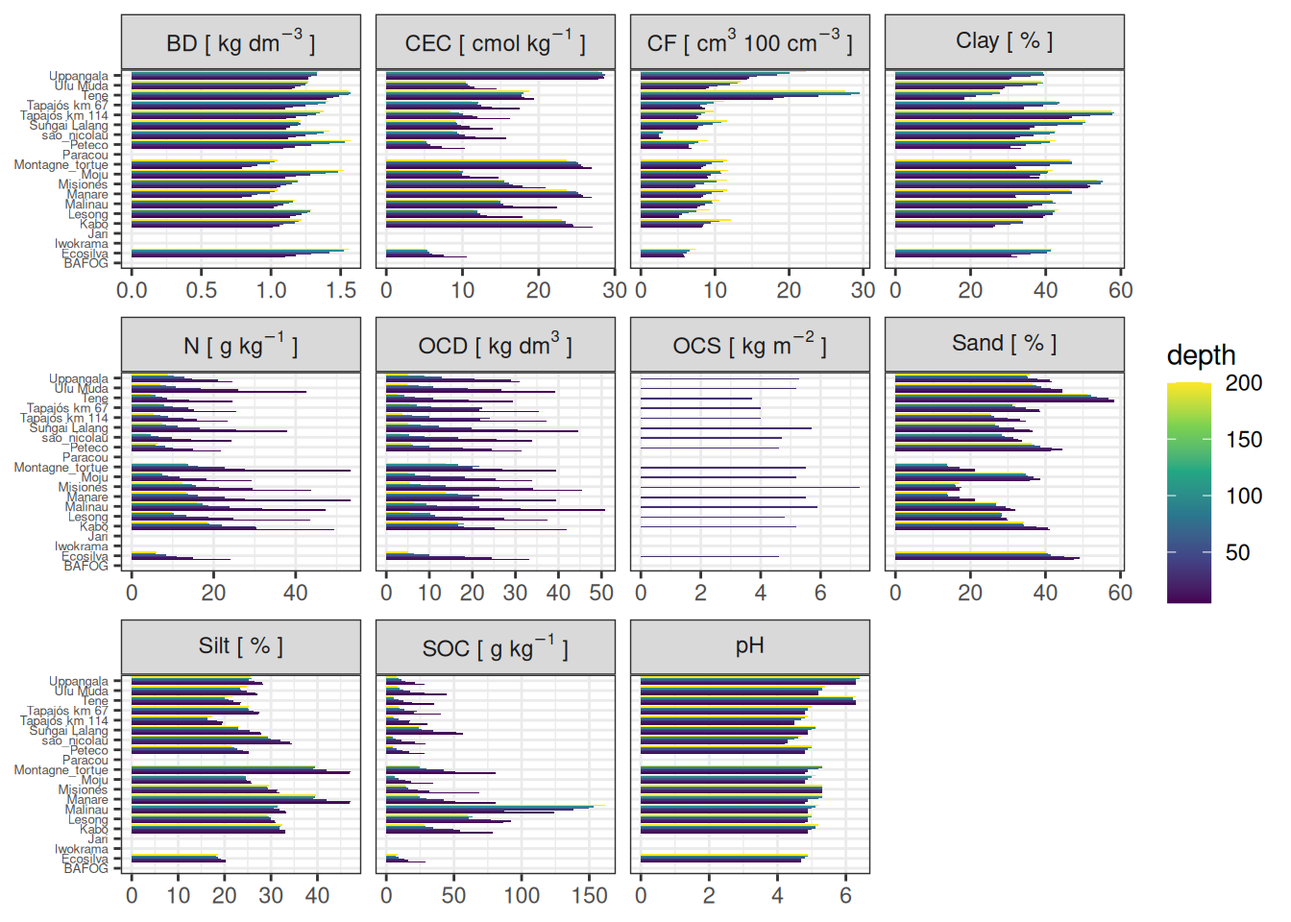
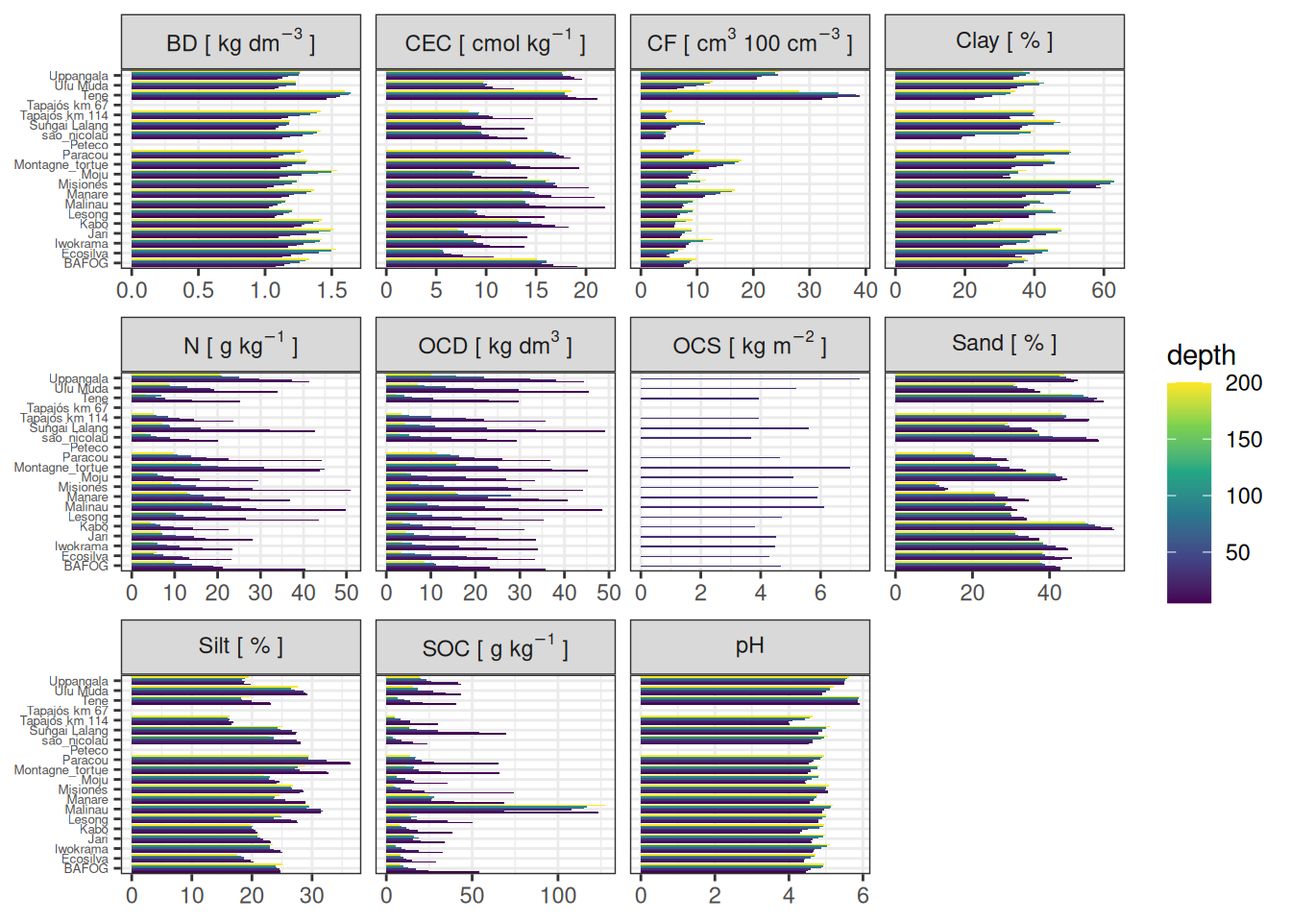
environment 0.1.0.9013: paracou and bafog soil fixed using bb, #1

diff --git a/docs/01_sites.html b/docs/01_sites.html
@@ -273,13 +273,13 @@ pre > code.sourceCode > span > a:first-child::before { text-decoration: underlin
 <span id="cb3-2"><a href="#cb3-2" aria-hidden="true" tabindex="-1"></a>  <span class="fu">st_as_sf</span>(<span class="at">coords =</span> <span class="fu">c</span>(<span class="st">"longitude"</span>, <span class="st">"latitude"</span>), <span class="at">crs =</span> <span class="dv">4326</span>) <span class="sc">%&gt;%</span></span>
 <span id="cb3-3"><a href="#cb3-3" aria-hidden="true" tabindex="-1"></a>  <span class="fu">leaflet</span>() <span class="sc">%&gt;%</span></span>
 <span id="cb3-4"><a href="#cb3-4" aria-hidden="true" tabindex="-1"></a>  <span class="fu">addTiles</span>() <span class="sc">%&gt;%</span></span>
-<span id="cb3-5"><a href="#cb3-5" aria-hidden="true" tabindex="-1"></a>  <span class="fu">addProviderTiles</span>(<span class="st">"Esri.WorldImagery"</span>, <span class="at">group =</span> <span class="st">"ESRI"</span>) <span class="sc">%&gt;%</span> </span>
+<span id="cb3-5"><a href="#cb3-5" aria-hidden="true" tabindex="-1"></a>  <span class="fu">addProviderTiles</span>(<span class="st">"Esri.WorldImagery"</span>, <span class="at">group =</span> <span class="st">"ESRI"</span>) <span class="sc">%&gt;%</span></span>
 <span id="cb3-6"><a href="#cb3-6" aria-hidden="true" tabindex="-1"></a>  <span class="fu">addMarkers</span>(<span class="at">label =</span> <span class="sc">~</span> <span class="fu">paste</span>(site, plot),</span>
 <span id="cb3-7"><a href="#cb3-7" aria-hidden="true" tabindex="-1"></a>             <span class="at">labelOptions =</span> <span class="fu">labelOptions</span>(<span class="at">noHide =</span> <span class="cn">FALSE</span>))</span></code><button title="Copy to Clipboard" class="code-copy-button"><i class="bi"></i></button></pre></div>
 </details>
 <div class="cell-output-display">
-<div class="leaflet html-widget html-fill-item" id="htmlwidget-54914cfb880b021c6792" style="width:100%;height:464px;"></div>
-<script type="application/json" data-for="htmlwidget-54914cfb880b021c6792">{"x":{"options":{"crs":{"crsClass":"L.CRS.EPSG3857","code":null,"proj4def":null,"projectedBounds":null,"options":{}}},"calls":[{"method":"addTiles","args":["https://{s}.tile.openstreetmap.org/{z}/{x}/{y}.png",null,null,{"minZoom":0,"maxZoom":18,"tileSize":256,"subdomains":"abc","errorTileUrl":"","tms":false,"noWrap":false,"zoomOffset":0,"zoomReverse":false,"opacity":1,"zIndex":1,"detectRetina":false,"attribution":"&copy; <a href=\"https://openstreetmap.org/copyright/\">OpenStreetMap<\/a>,  <a href=\"https://opendatacommons.org/licenses/odbl/\">ODbL<\/a>"}]},{"method":"addProviderTiles","args":["Esri.WorldImagery",null,"ESRI",{"errorTileUrl":"","noWrap":false,"detectRetina":false}]},{"method":"addMarkers","args":[[5.4858923,5.48457718,5.48513126,5.49303579,5.45787096,5.457295284,5.460222264,-3.690593,-3.69126,-3.691791,-3.692249,-3.69294,-3.693478,-3.693957,-3.694484,-3.695048,-3.687593,-3.688208,-3.688768,-3.689354,-3.689996,-3.690417,-3.691171,-3.691745,-3.692431,4.60763233316538,4.59096397191333,4.53049238455414,4.41961357161337,4.57087742691958,4.57281608136372,4.57098501777882,4.57273747945845,4.61082031227719,4.51864928008736,4.61901318218589,4.73240322930552,4.60940640386439,4.60839120203723,4.59816573279044,4.5710853121555,4.56457242610275,4.63036614109774,4.61967685558107,-0.89962,-0.89739,-0.8969,-0.89564,-0.90877,-0.90885,-0.90802,-0.91046,-0.9105799999999999,-0.91064,-0.91225,-0.91239,-0.91252,-0.91398,-0.91416,-0.9143,-0.9090200000000001,-0.90915,-0.9092,-0.91093,-0.91095,-0.91101,-0.91264,-0.91268,-0.9127999999999999,-0.91445,-0.91451,-0.91468,-0.9176,-0.91769,-0.91774,-0.91801,-0.91947,-0.91958,-0.9197,-0.91974,-0.9213,-0.92145,-0.92155,-0.92157,5.26500415,5.2630996,5.26148166,5.25869383,5.25695299,5.25503838,5.25143665,5.24962136,5.24794407,5.26066991,5.26194703,5.26393681,2.68166667,2.68166667,2.68166667,2.68166667,2.68166667,2.68166667,2.68166667,2.68166667,2.68166667,2.68166667,2.68166667,2.68166667,3.0173889,3.0236389,3.0190833,3.0155833,3.0218333,3.0165833,3.0158611,3.0259444,3.0203611,3.0238889,3.0222778,3.0196667,3.0217222,3.0123056,3.0137222,3.0211389,3.0171944,3.0168611,3.0154444,3.0129167,3.0195278,3.0169167,3.0133611,3.0163889,4.12787247,4.13543129,4.14872026,-26.9178,-26.91603,-26.91776,-26.91512,-26.91787,-26.91599,-26.91423,-26.9144,-26.91418,-26.91673,-26.91707,-26.91596,-26.91679,-26.91594,-26.9159,-26.91891,-26.92016,-26.91966,-2.16284,-2.16301,-2.16573,-2.16606,-2.15953,-2.15806,-2.16112,-2.15994,-2.15301,-2.1555,-2.15589,-2.15764,-2.15122,-2.151,-2.15062,-2.15077,-2.16317,-2.15034,-2.15112,-2.15822,-2.15529,-2.15543,4.22256517,4.22063255,4.21683311,5.2729063,5.26993895,5.26977634,5.27252007,5.27325153,5.2736125,5.26945019,5.26544285,5.2606492,5.26117277,5.25769091,5.25821447,5.27443266,5.27553701,5.2787981,-3.52232,-3.52036,-3.52593,-3.52683,-3.52144,-3.5202,-3.52404,-3.52249,-3.52388,-3.52609,-3.52369,-3.52019,-3.52167,-3.52637,-3.52524,-3.52541,-3.52207,-3.52202,-3.51934,-3.52306,-3.52039,-3.52626,-3.52513,-3.51876,-3.52658,-3.52042,-3.52758,-3.52184,-3.52448,-3.52622,-3.52179,-3.52718,-3.52709,-3.51972,-3.52369,-9.8409,-9.798624,-9.8346,-9.801318999999999,-9.8264,-9.802258,-9.8201,-9.804964,-9.8156,-9.806762000000001,-9.8102,-9.807708999999999,3.12638889,3.12638889,3.12638889,3.12638889,3.12638889,3.12638889,3.12638889,3.12638889,3.12638889,-3.313748,-3.313082,-3.312193,-3.312582,-3.312998,-3.314776,-3.315054,-3.313248,-3.314526,-3.313859,-3.314665,-3.315832,-3.315498,-3.314859,-3.315054,-3.316443,-3.317554,-3.317248,-3.31697,-3.317082,-3.316526,-3.316748,-3.316609,-3.317165,-3.31922,-3.31947,-3.317637,-3.318915,-3.318137,-3.318443,-3.319332,-3.319859,-3.320776,-3.320109,-3.319665,-3.319859,-3.320637,-3.32222,-3.322054,-3.322554,-3.322748,-3.323026,-3.322332,-3.323359,-3.322721,-3.321915,-3.323054,-3.323637,-3.310082,-3.308943,-3.30922,-3.310582,-3.309943,-3.310832,-3.310387,-3.311165,-3.31197,-3.31072,-3.311082,-3.312743545,-2.8899,-2.89023,-2.890441,-2.8891,-2.889394,-2.88861,-2.888208,-2.888429,-2.888715,-2.889538,-2.888662,-2.888666,-2.887301,-2.887463,-2.887967,-2.887842,-2.88781,-2.888313,-2.885772,-2.88696,-2.885119,-2.885597,-2.885231,-2.88615,-2.883785,-2.884635,-2.884952,-2.882843,-2.882952,-2.882867,-2.883267,-2.881667,-2.882284,-2.881962,-2.883246,-2.883762,-2.885635,-2.885138,-2.884285,-2.884447,-2.883378,-2.883609,-2.883729,-2.882446,-2.88199,-2.881638,-2.881202,-2.879973,-2.879776,-2.878802,-2.878946,-2.877858,-2.878029,-2.877228,6.532276,6.53233,6.532385,6.532411,6.532266,6.528577,6.528688,6.528694,6.528634,6.528723,6.524976,6.52512,6.525148,6.525054,6.525154,6.52147,6.521451,6.521467,6.521487,6.521529,6.51786,6.517843,6.517914,6.517915,6.517842,5.85416667,5.85416667,5.85416667,5.85416667,5.85416667,5.85416667,5.85416667,5.85416667,5.85416667,12.557685,12.548881,12.546026,12.54091,12.536984,12.534842],[-53.9765472,-53.995491,-53.9895172,-53.9878807,-53.8887024,-53.88871995,-54.00784841,-48.579111,-48.579839,-48.580483,-48.581106,-48.581891,-48.582674,-48.583345,-48.584105,-48.584839,-48.581715,-48.582466,-48.583099,-48.583732,-48.584486,-48.585108,-48.585853,-48.586487,-48.587103,-58.7119661626071,-58.7332717303187,-58.7837765953409,-58.8190844651194,-58.7604079346886,-58.7604306896075,-58.7585735565056,-58.7585634127209,-58.7337811588508,-58.7857280521559,-58.7218009833007,-58.7208286946615,-58.746922021423,-58.8057603416176,-58.7973722174807,-58.8062017939771,-58.7970990836838,-58.7399459097721,-58.7203354633307,-52.19340833,-52.19243056,-52.19150833,-52.19039167,-52.19278611,-52.19089444,-52.18901944,-52.19335278,-52.19139167,-52.18976389,-52.19324444,-52.19149444,-52.18965278,-52.19360556,-52.19166944,-52.19003889,-52.18691667,-52.18515556,-52.18344722,-52.18703333,-52.18526944,-52.18358889,-52.18717222,-52.18536667,-52.18373611,-52.18724167,-52.18554722,-52.18379722,-52.18709444,-52.18544167,-52.18350833,-52.18174167,-52.18728333,-52.1854,-52.18361944,-52.18188333,-52.18728611,-52.18557778,-52.18384167,-52.18188333,-55.77385219,-55.77580478,-55.77172978,-55.76606917,-55.76389821,-55.76531849,-55.76429704,-55.76563591,-55.76358214,-55.7682848,-55.76922063,-55.76921671,103.09722222,103.09722222,103.09722222,103.09722222,103.09722222,103.09722222,103.09722222,103.09722222,103.09722222,103.09722222,103.09722222,103.09722222,116.50425,116.5017778,116.5015,116.504083,116.5084166,116.50636111,116.50194445,116.501027778,116.50541666,116.50319445,116.5058333,116.5034444,116.5121111,116.51505555,116.5202222,116.51472222,116.51938888,116.513583333,116.51163888,116.5184444,116.5125,116.5151111,116.51405556,116.51452777,-52.1929054,-52.1856842,-52.2030754,-54.22924,-54.2293,-54.23125,-54.23128,-54.2333,-54.23326,-54.23122,-54.23337,-54.23528,-54.23523,-54.23731,-54.23731,-54.23951,-54.23931,-54.24121,-54.2377,-54.23586,-54.22926,-48.79275833,-48.79492778,-48.79700278,-48.79837222,-48.79380833,-48.79499722,-48.79762222,-48.79934167,-48.79436389,-48.79593889,-48.79910556,-48.80092222,-48.79469167,-48.79694167,-48.80028889,-48.80115278,-48.79802222,-48.80081944,-48.79550556,-48.79591389,-48.80024722,-48.79528889,-52.4113693,-52.4146004,-52.4136276,-52.9371719,-52.9376678,-52.9347534,-52.9304695,-52.9278831,-52.9252052,-52.9290771,-52.9297256,-52.9274101,-52.9246864,-52.9278984,-52.9252663,-52.9347954,-52.9313507,-52.926445,-48.7964,-48.7897,-48.7884,-48.7922,-48.7925,-48.7911,-48.7964,-48.7931,-48.7894,-48.7946,-48.7942,-48.7976,-48.7915,-48.7901,-48.793,-48.7965,-48.7913,-48.7891,-48.7926,-48.7916,-48.7934,-48.7916,-48.7905,-48.7906,-48.7934,-48.7961,-48.7957,-48.7947,-48.794,-48.7959,-48.7902,-48.7912,-48.795,-48.795,-48.7886,-58.2426,-58.32163,-58.2472,-58.3262,-58.2471,-58.31709,-58.2425,-58.31892,-58.2471,-58.32167,-58.237,-58.31073,101.95972222,101.95972222,101.95972222,101.95972222,101.95972222,101.95972222,101.95972222,101.95972222,101.95972222,-54.936137,-54.937276,-54.93747,-54.93922,-54.941054,-54.940637,-54.941581,-54.942026,-54.943692,-54.944609,-54.94447,-54.945192,-54.93572,-54.936942,-54.937831,-54.939331,-54.940054,-54.939442,-54.941137,-54.942192,-54.943192,-54.944109,-54.945192,-54.945831,-54.935054,-54.935915,-54.936387,-54.937859,-54.938109,-54.939915,-54.940554,-54.942498,-54.942304,-54.943387,-54.944415,-54.94522,-54.936526,-54.935248,-54.934387,-54.937026,-54.937915,-54.938915,-54.940081,-54.940804,-54.941984,-54.942998,-54.943665,-54.942442,-54.940776,-54.940026,-54.940915,-54.942554,-54.943692,-54.944248,-54.945498,-54.945192,-54.945776,-54.948081,-54.948748,-54.948299402,-54.922183,-54.923442,-54.924333,-54.921632,-54.922176,-54.925658,-54.92183,-54.922625,-54.923337,-54.924979,-54.925111,-54.922383,-54.922012,-54.922995,-54.923475,-54.924439,-54.925344,-54.926473,-54.922124,-54.926811,-54.922335,-54.923077,-54.92412,-54.926907,-54.921092,-54.923799,-54.925025,-54.920617,-54.921086,-54.921916,-54.925478,-54.920807,-54.921129,-54.922453,-54.925936,-54.927731,-54.928329,-54.928211,-54.92847,-54.929784,-54.928623,-54.929498,-54.930492,-54.928938,-54.929075,-54.929673,-54.931122,-54.930039,-54.931136,-54.930957,-54.931615,-54.931067,-54.931615,-54.930322,-5.48786,-5.4843,-5.480505,-5.476971,-5.473365,-5.487788,-5.484191,-5.480622,-5.476898,-5.473339,-5.487863,-5.484212,-5.480625,-5.476953,-5.47333,-5.487788,-5.484176,-5.480541,-5.476956,-5.473321,-5.487741,-5.484156,-5.480534,-5.476855,-5.473276,100.94805556,100.94805556,100.94805556,100.94805556,100.94805556,100.94805556,100.94805556,100.94805556,100.94805556,75.65812099999999,75.663713,75.664902,75.66056,75.662464,75.662464],null,null,null,{"interactive":true,"draggable":false,"keyboard":true,"title":"","alt":"","zIndexOffset":0,"opacity":1,"riseOnHover":false,"riseOffset":250},null,null,null,null,["BAFOG I","BAFOG II","BAFOG III","BAFOG IV","BAFOG V","BAFOG VI","BAFOG VII","Ecosilva 1","Ecosilva 2","Ecosilva 3","Ecosilva 4","Ecosilva 5","Ecosilva 6","Ecosilva 7","Ecosilva 8","Ecosilva 9","Ecosilva 10","Ecosilva 11","Ecosilva 12","Ecosilva 13","Ecosilva 14","Ecosilva 15","Ecosilva 16","Ecosilva 17","Ecosilva 18","Iwokrama IWO-01","Iwokrama IWO-02","Iwokrama IWO-03","Iwokrama IWO-04","Iwokrama IWO-05","Iwokrama IWO-06","Iwokrama IWO-07","Iwokrama IWO-08","Iwokrama IWO-09","Iwokrama IWO-10","Iwokrama IWO-11","Iwokrama IWO-12","Iwokrama IWO-13","Iwokrama IWO-14","Iwokrama IWO-15","Iwokrama IWO-16","Iwokrama IWO-17","Iwokrama IWO-21","Iwokrama IWO-22","Jari 1","Jari 2","Jari 3","Jari 4","Jari 101","Jari 102","Jari 103","Jari 104","Jari 105","Jari 106","Jari 107","Jari 108","Jari 109","Jari 110","Jari 111","Jari 112","Jari 201","Jari 202","Jari 203","Jari 204","Jari 205","Jari 206","Jari 207","Jari 208","Jari 209","Jari 210","Jari 211","Jari 212","Jari 301","Jari 302","Jari 303","Jari 304","Jari 305","Jari 306","Jari 307","Jari 308","Jari 309","Jari 310","Jari 311","Jari 312","Kabo KAB-12","Kabo KAB-14","Kabo KAB-19","Kabo KAB-22","Kabo KAB-26","Kabo KAB-28","Kabo KAB-32","Kabo KAB-34","Kabo KAB-38","Kabo KAB-41","Kabo KAB-42","Kabo KAB-43","Lesong 1","Lesong 2","Lesong 3","Lesong 4","Lesong 5","Lesong 6","Lesong 7","Lesong 8","Lesong 9","Lesong 10","Lesong 11","Lesong 12","Malinau CNV01","Malinau CNV02","Malinau CNV03","Malinau CNV04","Malinau CNV05","Malinau CNV06","Malinau CNV07","Malinau CNV08","Malinau CNV09","Malinau CNV10","Malinau CNV11","Malinau CNV12","Malinau RIL01","Malinau RIL02","Malinau RIL03","Malinau RIL04","Malinau RIL05","Malinau RIL06","Malinau RIL07","Malinau RIL08","Malinau RIL09","Malinau RIL10","Malinau RIL11","Malinau RIL12","Manare Manare_I","Manare Manare_II","Manare Saut_Lavilette","Misiones 1","Misiones 2","Misiones 3","Misiones 4","Misiones 5","Misiones 6","Misiones 7","Misiones 8","Misiones 9","Misiones 10","Misiones 11","Misiones 12","Misiones 13","Misiones 14","Misiones 16","Misiones 19","Misiones 20","Misiones 21","Moju 1","Moju 2","Moju 3","Moju 4","Moju 5","Moju 6","Moju 7","Moju 8","Moju 9","Moju 10","Moju 11","Moju 12","Moju 13","Moju 14","Moju 15","Moju 16","Moju 17","Moju 18","Moju 19","Moju 20","Moju 21","Moju 22","Montagne_tortue P17_exploitee_1","Montagne_tortue P17_exploitee_2","Montagne_tortue P17_temoin","Paracou 1","Paracou 2","Paracou 3","Paracou 4","Paracou 5","Paracou 6","Paracou 7","Paracou 8","Paracou 9","Paracou 10","Paracou 11","Paracou 12","Paracou 13","Paracou 14","Paracou 15","Peteco 1","Peteco 2","Peteco 3","Peteco 4","Peteco 5","Peteco 6","Peteco 7","Peteco 8","Peteco 9","Peteco 10","Peteco 11","Peteco 12","Peteco 13","Peteco 14","Peteco 15","Peteco 16","Peteco 17","Peteco 18","Peteco 20","Peteco 21","Peteco 22","Peteco 23","Peteco 24","Peteco 25","Peteco 26","Peteco 27","Peteco 28","Peteco 29","Peteco 30","Peteco 31","Peteco 32","Peteco 33","Peteco 34","Peteco 35","Peteco 36","sao_nicolau 1","sao_nicolau 1","sao_nicolau 2","sao_nicolau 2","sao_nicolau 3","sao_nicolau 3","sao_nicolau 4","sao_nicolau 4","sao_nicolau 5","sao_nicolau 5","sao_nicolau 6","sao_nicolau 6","Sungai Lalang 13","Sungai Lalang 14","Sungai Lalang 15","Sungai Lalang 16","Sungai Lalang 17","Sungai Lalang 18","Sungai Lalang 19","Sungai Lalang 20","Sungai Lalang 21","Tapajos km 114 101","Tapajos km 114 102","Tapajos km 114 103","Tapajos km 114 104","Tapajos km 114 105","Tapajos km 114 106","Tapajos km 114 107","Tapajos km 114 108","Tapajos km 114 109","Tapajos km 114 110","Tapajos km 114 111","Tapajos km 114 112","Tapajos km 114 201","Tapajos km 114 202","Tapajos km 114 203","Tapajos km 114 204","Tapajos km 114 205","Tapajos km 114 206","Tapajos km 114 207","Tapajos km 114 208","Tapajos km 114 209","Tapajos km 114 210","Tapajos km 114 211","Tapajos km 114 212","Tapajos km 114 301","Tapajos km 114 302","Tapajos km 114 303","Tapajos km 114 304","Tapajos km 114 305","Tapajos km 114 306","Tapajos km 114 307","Tapajos km 114 308","Tapajos km 114 309","Tapajos km 114 310","Tapajos km 114 311","Tapajos km 114 312","Tapajos km 114 401","Tapajos km 114 402","Tapajos km 114 403","Tapajos km 114 404","Tapajos km 114 405","Tapajos km 114 406","Tapajos km 114 407","Tapajos km 114 408","Tapajos km 114 409","Tapajos km 114 410","Tapajos km 114 411","Tapajos km 114 412","Tapajos km 114 501","Tapajos km 114 502","Tapajos km 114 503","Tapajos km 114 504","Tapajos km 114 505","Tapajos km 114 506","Tapajos km 114 507","Tapajos km 114 508","Tapajos km 114 509","Tapajos km 114 510","Tapajos km 114 511","Tapajos km 114 512","Tapajós km 67 01E","Tapajós km 67 02E","Tapajós km 67 03E","Tapajós km 67 04E","Tapajós km 67 05E","Tapajós km 67 06E","Tapajós km 67 07E","Tapajós km 67 08E","Tapajós km 67 09E","Tapajós km 67 10E","Tapajós km 67 11E","Tapajós km 67 12E","Tapajós km 67 13E","Tapajós km 67 14E","Tapajós km 67 15E","Tapajós km 67 16E","Tapajós km 67 17E","Tapajós km 67 18E","Tapajós km 67 19E","Tapajós km 67 20E","Tapajós km 67 21E","Tapajós km 67 22E","Tapajós km 67 23E","Tapajós km 67 24E","Tapajós km 67 25E","Tapajós km 67 26E","Tapajós km 67 27E","Tapajós km 67 28E","Tapajós km 67 29E","Tapajós km 67 30E","Tapajós km 67 31E","Tapajós km 67 32E","Tapajós km 67 33E","Tapajós km 67 34E","Tapajós km 67 35E","Tapajós km 67 36E","Tapajós km 67 01T","Tapajós km 67 02T","Tapajós km 67 03T","Tapajós km 67 04T","Tapajós km 67 05T","Tapajós km 67 06T","Tapajós km 67 07T","Tapajós km 67 08T","Tapajós km 67 09T","Tapajós km 67 10T","Tapajós km 67 11T","Tapajós km 67 12T","Tapajós km 67 13T","Tapajós km 67 14T","Tapajós km 67 15T","Tapajós km 67 16T","Tapajós km 67 17T","Tapajós km 67 18T","Tene Subplot_1","Tene Subplot_2","Tene Subplot_3","Tene Subplot_4","Tene Subplot_5","Tene Subplot_6","Tene Subplot_7","Tene Subplot_8","Tene Subplot_9","Tene Subplot_10","Tene Subplot_11","Tene Subplot_12","Tene Subplot_13","Tene Subplot_14","Tene Subplot_15","Tene Subplot_16","Tene Subplot_17","Tene Subplot_18","Tene Subplot_19","Tene Subplot_20","Tene Subplot_21","Tene Subplot_22","Tene Subplot_23","Tene Subplot_24","Tene Subplot_25","Ulu Muda 22","Ulu Muda 23","Ulu Muda 24","Ulu Muda 25","Ulu Muda 26","Ulu Muda 27","Ulu Muda 28","Ulu Muda 29","Ulu Muda 30","Uppangala LP1","Uppangala LP2","Uppangala LP3","Uppangala LP4","Uppangala UP1","Uppangala UP2"],{"interactive":false,"permanent":false,"direction":"auto","opacity":1,"offset":[0,0],"textsize":"10px","textOnly":false,"className":"","sticky":true},null]}],"limits":{"lat":[-26.92016,12.557685],"lng":[-58.8190844651194,116.5202222]}},"evals":[],"jsHooks":[]}</script>
+<div class="leaflet html-widget html-fill-item" id="htmlwidget-9a3c7b66a562da607c38" style="width:100%;height:464px;"></div>
+<script type="application/json" data-for="htmlwidget-9a3c7b66a562da607c38">{"x":{"options":{"crs":{"crsClass":"L.CRS.EPSG3857","code":null,"proj4def":null,"projectedBounds":null,"options":{}}},"calls":[{"method":"addTiles","args":["https://{s}.tile.openstreetmap.org/{z}/{x}/{y}.png",null,null,{"minZoom":0,"maxZoom":18,"tileSize":256,"subdomains":"abc","errorTileUrl":"","tms":false,"noWrap":false,"zoomOffset":0,"zoomReverse":false,"opacity":1,"zIndex":1,"detectRetina":false,"attribution":"&copy; <a href=\"https://openstreetmap.org/copyright/\">OpenStreetMap<\/a>,  <a href=\"https://opendatacommons.org/licenses/odbl/\">ODbL<\/a>"}]},{"method":"addProviderTiles","args":["Esri.WorldImagery",null,"ESRI",{"errorTileUrl":"","noWrap":false,"detectRetina":false}]},{"method":"addMarkers","args":[[5.4858923,5.48457718,5.48513126,5.49303579,5.45787096,5.457295284,5.460222264,-3.690593,-3.69126,-3.691791,-3.692249,-3.69294,-3.693478,-3.693957,-3.694484,-3.695048,-3.687593,-3.688208,-3.688768,-3.689354,-3.689996,-3.690417,-3.691171,-3.691745,-3.692431,4.60763233316538,4.59096397191333,4.53049238455414,4.41961357161337,4.57087742691958,4.57281608136372,4.57098501777882,4.57273747945845,4.61082031227719,4.51864928008736,4.61901318218589,4.73240322930552,4.60940640386439,4.60839120203723,4.59816573279044,4.5710853121555,4.56457242610275,4.63036614109774,4.61967685558107,-0.89962,-0.89739,-0.8969,-0.89564,-0.90877,-0.90885,-0.90802,-0.91046,-0.9105799999999999,-0.91064,-0.91225,-0.91239,-0.91252,-0.91398,-0.91416,-0.9143,-0.9090200000000001,-0.90915,-0.9092,-0.91093,-0.91095,-0.91101,-0.91264,-0.91268,-0.9127999999999999,-0.91445,-0.91451,-0.91468,-0.9176,-0.91769,-0.91774,-0.91801,-0.91947,-0.91958,-0.9197,-0.91974,-0.9213,-0.92145,-0.92155,-0.92157,5.26500415,5.2630996,5.26148166,5.25869383,5.25695299,5.25503838,5.25143665,5.24962136,5.24794407,5.26066991,5.26194703,5.26393681,2.68166667,2.68166667,2.68166667,2.68166667,2.68166667,2.68166667,2.68166667,2.68166667,2.68166667,2.68166667,2.68166667,2.68166667,3.0173889,3.0236389,3.0190833,3.0155833,3.0218333,3.0165833,3.0158611,3.0259444,3.0203611,3.0238889,3.0222778,3.0196667,3.0217222,3.0123056,3.0137222,3.0211389,3.0171944,3.0168611,3.0154444,3.0129167,3.0195278,3.0169167,3.0133611,3.0163889,4.12787247,4.13543129,4.14872026,-26.9178,-26.91603,-26.91776,-26.91512,-26.91787,-26.91599,-26.91423,-26.9144,-26.91418,-26.91673,-26.91707,-26.91596,-26.91679,-26.91594,-26.9159,-26.91891,-26.92016,-26.91966,-2.16284,-2.16301,-2.16573,-2.16606,-2.15953,-2.15806,-2.16112,-2.15994,-2.15301,-2.1555,-2.15589,-2.15764,-2.15122,-2.151,-2.15062,-2.15077,-2.16317,-2.15034,-2.15112,-2.15822,-2.15529,-2.15543,4.22256517,4.22063255,4.21683311,5.2729063,5.26993895,5.26977634,5.27252007,5.27325153,5.2736125,5.26945019,5.26544285,5.2606492,5.26117277,5.25769091,5.25821447,5.27443266,5.27553701,5.2787981,-3.52232,-3.52036,-3.52593,-3.52683,-3.52144,-3.5202,-3.52404,-3.52249,-3.52388,-3.52609,-3.52369,-3.52019,-3.52167,-3.52637,-3.52524,-3.52541,-3.52207,-3.52202,-3.51934,-3.52306,-3.52039,-3.52626,-3.52513,-3.51876,-3.52658,-3.52042,-3.52758,-3.52184,-3.52448,-3.52622,-3.52179,-3.52718,-3.52709,-3.51972,-3.52369,-9.8409,-9.798624,-9.8346,-9.801318999999999,-9.8264,-9.802258,-9.8201,-9.804964,-9.8156,-9.806762000000001,-9.8102,-9.807708999999999,3.12638889,3.12638889,3.12638889,3.12638889,3.12638889,3.12638889,3.12638889,3.12638889,3.12638889,-3.313748,-3.313082,-3.312193,-3.312582,-3.312998,-3.314776,-3.315054,-3.313248,-3.314526,-3.313859,-3.314665,-3.315832,-3.315498,-3.314859,-3.315054,-3.316443,-3.317554,-3.317248,-3.31697,-3.317082,-3.316526,-3.316748,-3.316609,-3.317165,-3.31922,-3.31947,-3.317637,-3.318915,-3.318137,-3.318443,-3.319332,-3.319859,-3.320776,-3.320109,-3.319665,-3.319859,-3.320637,-3.32222,-3.322054,-3.322554,-3.322748,-3.323026,-3.322332,-3.323359,-3.322721,-3.321915,-3.323054,-3.323637,-3.310082,-3.308943,-3.30922,-3.310582,-3.309943,-3.310832,-3.310387,-3.311165,-3.31197,-3.31072,-3.311082,-3.312743545,-2.8899,-2.89023,-2.890441,-2.8891,-2.889394,-2.88861,-2.888208,-2.888429,-2.888715,-2.889538,-2.888662,-2.888666,-2.887301,-2.887463,-2.887967,-2.887842,-2.88781,-2.888313,-2.885772,-2.88696,-2.885119,-2.885597,-2.885231,-2.88615,-2.883785,-2.884635,-2.884952,-2.882843,-2.882952,-2.882867,-2.883267,-2.881667,-2.882284,-2.881962,-2.883246,-2.883762,-2.885635,-2.885138,-2.884285,-2.884447,-2.883378,-2.883609,-2.883729,-2.882446,-2.88199,-2.881638,-2.881202,-2.879973,-2.879776,-2.878802,-2.878946,-2.877858,-2.878029,-2.877228,6.532276,6.53233,6.532385,6.532411,6.532266,6.528577,6.528688,6.528694,6.528634,6.528723,6.524976,6.52512,6.525148,6.525054,6.525154,6.52147,6.521451,6.521467,6.521487,6.521529,6.51786,6.517843,6.517914,6.517915,6.517842,5.85416667,5.85416667,5.85416667,5.85416667,5.85416667,5.85416667,5.85416667,5.85416667,5.85416667,12.557685,12.548881,12.546026,12.54091,12.536984,12.534842],[-53.9765472,-53.995491,-53.9895172,-53.9878807,-53.8887024,-53.88871995,-54.00784841,-48.579111,-48.579839,-48.580483,-48.581106,-48.581891,-48.582674,-48.583345,-48.584105,-48.584839,-48.581715,-48.582466,-48.583099,-48.583732,-48.584486,-48.585108,-48.585853,-48.586487,-48.587103,-58.7119661626071,-58.7332717303187,-58.7837765953409,-58.8190844651194,-58.7604079346886,-58.7604306896075,-58.7585735565056,-58.7585634127209,-58.7337811588508,-58.7857280521559,-58.7218009833007,-58.7208286946615,-58.746922021423,-58.8057603416176,-58.7973722174807,-58.8062017939771,-58.7970990836838,-58.7399459097721,-58.7203354633307,-52.19340833,-52.19243056,-52.19150833,-52.19039167,-52.19278611,-52.19089444,-52.18901944,-52.19335278,-52.19139167,-52.18976389,-52.19324444,-52.19149444,-52.18965278,-52.19360556,-52.19166944,-52.19003889,-52.18691667,-52.18515556,-52.18344722,-52.18703333,-52.18526944,-52.18358889,-52.18717222,-52.18536667,-52.18373611,-52.18724167,-52.18554722,-52.18379722,-52.18709444,-52.18544167,-52.18350833,-52.18174167,-52.18728333,-52.1854,-52.18361944,-52.18188333,-52.18728611,-52.18557778,-52.18384167,-52.18188333,-55.77385219,-55.77580478,-55.77172978,-55.76606917,-55.76389821,-55.76531849,-55.76429704,-55.76563591,-55.76358214,-55.7682848,-55.76922063,-55.76921671,103.09722222,103.09722222,103.09722222,103.09722222,103.09722222,103.09722222,103.09722222,103.09722222,103.09722222,103.09722222,103.09722222,103.09722222,116.50425,116.5017778,116.5015,116.504083,116.5084166,116.50636111,116.50194445,116.501027778,116.50541666,116.50319445,116.5058333,116.5034444,116.5121111,116.51505555,116.5202222,116.51472222,116.51938888,116.513583333,116.51163888,116.5184444,116.5125,116.5151111,116.51405556,116.51452777,-52.1929054,-52.1856842,-52.2030754,-54.22924,-54.2293,-54.23125,-54.23128,-54.2333,-54.23326,-54.23122,-54.23337,-54.23528,-54.23523,-54.23731,-54.23731,-54.23951,-54.23931,-54.24121,-54.2377,-54.23586,-54.22926,-48.79275833,-48.79492778,-48.79700278,-48.79837222,-48.79380833,-48.79499722,-48.79762222,-48.79934167,-48.79436389,-48.79593889,-48.79910556,-48.80092222,-48.79469167,-48.79694167,-48.80028889,-48.80115278,-48.79802222,-48.80081944,-48.79550556,-48.79591389,-48.80024722,-48.79528889,-52.4113693,-52.4146004,-52.4136276,-52.9371719,-52.9376678,-52.9347534,-52.9304695,-52.9278831,-52.9252052,-52.9290771,-52.9297256,-52.9274101,-52.9246864,-52.9278984,-52.9252663,-52.9347954,-52.9313507,-52.926445,-48.7964,-48.7897,-48.7884,-48.7922,-48.7925,-48.7911,-48.7964,-48.7931,-48.7894,-48.7946,-48.7942,-48.7976,-48.7915,-48.7901,-48.793,-48.7965,-48.7913,-48.7891,-48.7926,-48.7916,-48.7934,-48.7916,-48.7905,-48.7906,-48.7934,-48.7961,-48.7957,-48.7947,-48.794,-48.7959,-48.7902,-48.7912,-48.795,-48.795,-48.7886,-58.2426,-58.32163,-58.2472,-58.3262,-58.2471,-58.31709,-58.2425,-58.31892,-58.2471,-58.32167,-58.237,-58.31073,101.95972222,101.95972222,101.95972222,101.95972222,101.95972222,101.95972222,101.95972222,101.95972222,101.95972222,-54.936137,-54.937276,-54.93747,-54.93922,-54.941054,-54.940637,-54.941581,-54.942026,-54.943692,-54.944609,-54.94447,-54.945192,-54.93572,-54.936942,-54.937831,-54.939331,-54.940054,-54.939442,-54.941137,-54.942192,-54.943192,-54.944109,-54.945192,-54.945831,-54.935054,-54.935915,-54.936387,-54.937859,-54.938109,-54.939915,-54.940554,-54.942498,-54.942304,-54.943387,-54.944415,-54.94522,-54.936526,-54.935248,-54.934387,-54.937026,-54.937915,-54.938915,-54.940081,-54.940804,-54.941984,-54.942998,-54.943665,-54.942442,-54.940776,-54.940026,-54.940915,-54.942554,-54.943692,-54.944248,-54.945498,-54.945192,-54.945776,-54.948081,-54.948748,-54.948299402,-54.922183,-54.923442,-54.924333,-54.921632,-54.922176,-54.925658,-54.92183,-54.922625,-54.923337,-54.924979,-54.925111,-54.922383,-54.922012,-54.922995,-54.923475,-54.924439,-54.925344,-54.926473,-54.922124,-54.926811,-54.922335,-54.923077,-54.92412,-54.926907,-54.921092,-54.923799,-54.925025,-54.920617,-54.921086,-54.921916,-54.925478,-54.920807,-54.921129,-54.922453,-54.925936,-54.927731,-54.928329,-54.928211,-54.92847,-54.929784,-54.928623,-54.929498,-54.930492,-54.928938,-54.929075,-54.929673,-54.931122,-54.930039,-54.931136,-54.930957,-54.931615,-54.931067,-54.931615,-54.930322,-5.48786,-5.4843,-5.480505,-5.476971,-5.473365,-5.487788,-5.484191,-5.480622,-5.476898,-5.473339,-5.487863,-5.484212,-5.480625,-5.476953,-5.47333,-5.487788,-5.484176,-5.480541,-5.476956,-5.473321,-5.487741,-5.484156,-5.480534,-5.476855,-5.473276,100.94805556,100.94805556,100.94805556,100.94805556,100.94805556,100.94805556,100.94805556,100.94805556,100.94805556,75.65812099999999,75.663713,75.664902,75.66056,75.662464,75.662464],null,null,null,{"interactive":true,"draggable":false,"keyboard":true,"title":"","alt":"","zIndexOffset":0,"opacity":1,"riseOnHover":false,"riseOffset":250},null,null,null,null,["BAFOG I","BAFOG II","BAFOG III","BAFOG IV","BAFOG V","BAFOG VI","BAFOG VII","Ecosilva 1","Ecosilva 2","Ecosilva 3","Ecosilva 4","Ecosilva 5","Ecosilva 6","Ecosilva 7","Ecosilva 8","Ecosilva 9","Ecosilva 10","Ecosilva 11","Ecosilva 12","Ecosilva 13","Ecosilva 14","Ecosilva 15","Ecosilva 16","Ecosilva 17","Ecosilva 18","Iwokrama IWO-01","Iwokrama IWO-02","Iwokrama IWO-03","Iwokrama IWO-04","Iwokrama IWO-05","Iwokrama IWO-06","Iwokrama IWO-07","Iwokrama IWO-08","Iwokrama IWO-09","Iwokrama IWO-10","Iwokrama IWO-11","Iwokrama IWO-12","Iwokrama IWO-13","Iwokrama IWO-14","Iwokrama IWO-15","Iwokrama IWO-16","Iwokrama IWO-17","Iwokrama IWO-21","Iwokrama IWO-22","Jari 1","Jari 2","Jari 3","Jari 4","Jari 101","Jari 102","Jari 103","Jari 104","Jari 105","Jari 106","Jari 107","Jari 108","Jari 109","Jari 110","Jari 111","Jari 112","Jari 201","Jari 202","Jari 203","Jari 204","Jari 205","Jari 206","Jari 207","Jari 208","Jari 209","Jari 210","Jari 211","Jari 212","Jari 301","Jari 302","Jari 303","Jari 304","Jari 305","Jari 306","Jari 307","Jari 308","Jari 309","Jari 310","Jari 311","Jari 312","Kabo KAB-12","Kabo KAB-14","Kabo KAB-19","Kabo KAB-22","Kabo KAB-26","Kabo KAB-28","Kabo KAB-32","Kabo KAB-34","Kabo KAB-38","Kabo KAB-41","Kabo KAB-42","Kabo KAB-43","Lesong 1","Lesong 2","Lesong 3","Lesong 4","Lesong 5","Lesong 6","Lesong 7","Lesong 8","Lesong 9","Lesong 10","Lesong 11","Lesong 12","Malinau CNV01","Malinau CNV02","Malinau CNV03","Malinau CNV04","Malinau CNV05","Malinau CNV06","Malinau CNV07","Malinau CNV08","Malinau CNV09","Malinau CNV10","Malinau CNV11","Malinau CNV12","Malinau RIL01","Malinau RIL02","Malinau RIL03","Malinau RIL04","Malinau RIL05","Malinau RIL06","Malinau RIL07","Malinau RIL08","Malinau RIL09","Malinau RIL10","Malinau RIL11","Malinau RIL12","Manare Manare_I","Manare Manare_II","Manare Saut_Lavilette","Misiones 1","Misiones 2","Misiones 3","Misiones 4","Misiones 5","Misiones 6","Misiones 7","Misiones 8","Misiones 9","Misiones 10","Misiones 11","Misiones 12","Misiones 13","Misiones 14","Misiones 16","Misiones 19","Misiones 20","Misiones 21","Moju 1","Moju 2","Moju 3","Moju 4","Moju 5","Moju 6","Moju 7","Moju 8","Moju 9","Moju 10","Moju 11","Moju 12","Moju 13","Moju 14","Moju 15","Moju 16","Moju 17","Moju 18","Moju 19","Moju 20","Moju 21","Moju 22","Montagne_tortue P17_exploitee_1","Montagne_tortue P17_exploitee_2","Montagne_tortue P17_temoin","Paracou 1","Paracou 2","Paracou 3","Paracou 4","Paracou 5","Paracou 6","Paracou 7","Paracou 8","Paracou 9","Paracou 10","Paracou 11","Paracou 12","Paracou 13","Paracou 14","Paracou 15","Peteco 1","Peteco 2","Peteco 3","Peteco 4","Peteco 5","Peteco 6","Peteco 7","Peteco 8","Peteco 9","Peteco 10","Peteco 11","Peteco 12","Peteco 13","Peteco 14","Peteco 15","Peteco 16","Peteco 17","Peteco 18","Peteco 20","Peteco 21","Peteco 22","Peteco 23","Peteco 24","Peteco 25","Peteco 26","Peteco 27","Peteco 28","Peteco 29","Peteco 30","Peteco 31","Peteco 32","Peteco 33","Peteco 34","Peteco 35","Peteco 36","sao_nicolau 1","sao_nicolau 1","sao_nicolau 2","sao_nicolau 2","sao_nicolau 3","sao_nicolau 3","sao_nicolau 4","sao_nicolau 4","sao_nicolau 5","sao_nicolau 5","sao_nicolau 6","sao_nicolau 6","Sungai Lalang 13","Sungai Lalang 14","Sungai Lalang 15","Sungai Lalang 16","Sungai Lalang 17","Sungai Lalang 18","Sungai Lalang 19","Sungai Lalang 20","Sungai Lalang 21","Tapajos km 114 101","Tapajos km 114 102","Tapajos km 114 103","Tapajos km 114 104","Tapajos km 114 105","Tapajos km 114 106","Tapajos km 114 107","Tapajos km 114 108","Tapajos km 114 109","Tapajos km 114 110","Tapajos km 114 111","Tapajos km 114 112","Tapajos km 114 201","Tapajos km 114 202","Tapajos km 114 203","Tapajos km 114 204","Tapajos km 114 205","Tapajos km 114 206","Tapajos km 114 207","Tapajos km 114 208","Tapajos km 114 209","Tapajos km 114 210","Tapajos km 114 211","Tapajos km 114 212","Tapajos km 114 301","Tapajos km 114 302","Tapajos km 114 303","Tapajos km 114 304","Tapajos km 114 305","Tapajos km 114 306","Tapajos km 114 307","Tapajos km 114 308","Tapajos km 114 309","Tapajos km 114 310","Tapajos km 114 311","Tapajos km 114 312","Tapajos km 114 401","Tapajos km 114 402","Tapajos km 114 403","Tapajos km 114 404","Tapajos km 114 405","Tapajos km 114 406","Tapajos km 114 407","Tapajos km 114 408","Tapajos km 114 409","Tapajos km 114 410","Tapajos km 114 411","Tapajos km 114 412","Tapajos km 114 501","Tapajos km 114 502","Tapajos km 114 503","Tapajos km 114 504","Tapajos km 114 505","Tapajos km 114 506","Tapajos km 114 507","Tapajos km 114 508","Tapajos km 114 509","Tapajos km 114 510","Tapajos km 114 511","Tapajos km 114 512","Tapajós km 67 01E","Tapajós km 67 02E","Tapajós km 67 03E","Tapajós km 67 04E","Tapajós km 67 05E","Tapajós km 67 06E","Tapajós km 67 07E","Tapajós km 67 08E","Tapajós km 67 09E","Tapajós km 67 10E","Tapajós km 67 11E","Tapajós km 67 12E","Tapajós km 67 13E","Tapajós km 67 14E","Tapajós km 67 15E","Tapajós km 67 16E","Tapajós km 67 17E","Tapajós km 67 18E","Tapajós km 67 19E","Tapajós km 67 20E","Tapajós km 67 21E","Tapajós km 67 22E","Tapajós km 67 23E","Tapajós km 67 24E","Tapajós km 67 25E","Tapajós km 67 26E","Tapajós km 67 27E","Tapajós km 67 28E","Tapajós km 67 29E","Tapajós km 67 30E","Tapajós km 67 31E","Tapajós km 67 32E","Tapajós km 67 33E","Tapajós km 67 34E","Tapajós km 67 35E","Tapajós km 67 36E","Tapajós km 67 01T","Tapajós km 67 02T","Tapajós km 67 03T","Tapajós km 67 04T","Tapajós km 67 05T","Tapajós km 67 06T","Tapajós km 67 07T","Tapajós km 67 08T","Tapajós km 67 09T","Tapajós km 67 10T","Tapajós km 67 11T","Tapajós km 67 12T","Tapajós km 67 13T","Tapajós km 67 14T","Tapajós km 67 15T","Tapajós km 67 16T","Tapajós km 67 17T","Tapajós km 67 18T","Tene Subplot_1","Tene Subplot_2","Tene Subplot_3","Tene Subplot_4","Tene Subplot_5","Tene Subplot_6","Tene Subplot_7","Tene Subplot_8","Tene Subplot_9","Tene Subplot_10","Tene Subplot_11","Tene Subplot_12","Tene Subplot_13","Tene Subplot_14","Tene Subplot_15","Tene Subplot_16","Tene Subplot_17","Tene Subplot_18","Tene Subplot_19","Tene Subplot_20","Tene Subplot_21","Tene Subplot_22","Tene Subplot_23","Tene Subplot_24","Tene Subplot_25","Ulu Muda 22","Ulu Muda 23","Ulu Muda 24","Ulu Muda 25","Ulu Muda 26","Ulu Muda 27","Ulu Muda 28","Ulu Muda 29","Ulu Muda 30","Uppangala LP1","Uppangala LP2","Uppangala LP3","Uppangala LP4","Uppangala UP1","Uppangala UP2"],{"interactive":false,"permanent":false,"direction":"auto","opacity":1,"offset":[0,0],"textsize":"10px","textOnly":false,"className":"","sticky":true},null]}],"limits":{"lat":[-26.92016,12.557685],"lng":[-58.8190844651194,116.5202222]}},"evals":[],"jsHooks":[]}</script>
 <p>Sites and plots locations.</p>
 </div>
 </div>

diff --git a/docs/14_soil.html b/docs/14_soil.html
@@ -250,10 +250,10 @@ div.csl-indent {
 <div class="cell">
 <details>
 <summary>Code</summary>
-<div class="sourceCode cell-code" id="cb1"><pre class="sourceCode r code-with-copy"><code class="sourceCode r"><span id="cb1-1"><a href="#cb1-1" aria-hidden="true" tabindex="-1"></a><span class="fu">list.files</span>(<span class="st">"data/soil/"</span>, <span class="at">full.names =</span> <span class="cn">TRUE</span>) <span class="sc">%&gt;%</span></span>
+<div class="sourceCode cell-code" id="cb1"><pre class="sourceCode r code-with-copy"><code class="sourceCode r"><span id="cb1-1"><a href="#cb1-1" aria-hidden="true" tabindex="-1"></a><span class="fu">list.files</span>(<span class="st">"data/derived_data/soil/"</span>, <span class="at">full.names =</span> <span class="cn">TRUE</span>) <span class="sc">%&gt;%</span></span>
 <span id="cb1-2"><a href="#cb1-2" aria-hidden="true" tabindex="-1"></a>  <span class="fu">read_tsv</span>() <span class="sc">%&gt;%</span></span>
 <span id="cb1-3"><a href="#cb1-3" aria-hidden="true" tabindex="-1"></a>  <span class="fu">select</span>(<span class="sc">-</span>time) <span class="sc">%&gt;%</span></span>
-<span id="cb1-4"><a href="#cb1-4" aria-hidden="true" tabindex="-1"></a>  <span class="fu">gather</span>(variable, value, <span class="sc">-</span>site, <span class="sc">-</span>plot, <span class="sc">-</span>lon, <span class="sc">-</span>lat) <span class="sc">%&gt;%</span></span>
+<span id="cb1-4"><a href="#cb1-4" aria-hidden="true" tabindex="-1"></a>  <span class="fu">gather</span>(variable, value, <span class="sc">-</span>site, <span class="sc">-</span>plot, <span class="sc">-</span>X, <span class="sc">-</span>Y) <span class="sc">%&gt;%</span></span>
 <span id="cb1-5"><a href="#cb1-5" aria-hidden="true" tabindex="-1"></a>  <span class="fu">separate</span>(variable, <span class="fu">c</span>(<span class="st">"variable"</span>, <span class="st">"depth"</span>), <span class="st">"_"</span>) <span class="sc">%&gt;%</span></span>
 <span id="cb1-6"><a href="#cb1-6" aria-hidden="true" tabindex="-1"></a>  <span class="fu">separate</span>(depth, <span class="fu">c</span>(<span class="st">"mindepth"</span>, <span class="st">"depth"</span>), <span class="st">"-"</span>) <span class="sc">%&gt;%</span></span>
 <span id="cb1-7"><a href="#cb1-7" aria-hidden="true" tabindex="-1"></a>  <span class="fu">mutate</span>(<span class="at">depth =</span> <span class="fu">as.numeric</span>(<span class="fu">gsub</span>(<span class="st">"cm"</span>, <span class="st">""</span>, depth))) <span class="sc">%&gt;%</span></span>
@@ -275,15 +275,12 @@ div.csl-indent {
 <span id="cb1-23"><a href="#cb1-23" aria-hidden="true" tabindex="-1"></a>  <span class="fu">write_tsv</span>(<span class="st">"outputs/soil.tsv"</span>)</span></code><button title="Copy to Clipboard" class="code-copy-button"><i class="bi"></i></button></pre></div>
 </details>
 </div>
-<blockquote class="blockquote">
-<p>BAFOG and Paracou are lacking because too close to the sea.</p>
-</blockquote>
 <p>The plots showed low variation within site but wider variation among sites with for instance sandy soils from Iwokrama opposed to silt and clay soils from Montagne Tortue.</p>
 <div class="cell">
 <details>
 <summary>Code</summary>
 <div class="sourceCode cell-code" id="cb2"><pre class="sourceCode r code-with-copy"><code class="sourceCode r"><span id="cb2-1"><a href="#cb2-1" aria-hidden="true" tabindex="-1"></a><span class="fu">read_tsv</span>(<span class="st">"outputs/soil.tsv"</span>) <span class="sc">%&gt;%</span></span>
-<span id="cb2-2"><a href="#cb2-2" aria-hidden="true" tabindex="-1"></a>  <span class="fu">select</span>(<span class="sc">-</span>lon, <span class="sc">-</span>lat, <span class="sc">-</span>plot) <span class="sc">%&gt;%</span></span>
+<span id="cb2-2"><a href="#cb2-2" aria-hidden="true" tabindex="-1"></a>  <span class="fu">select</span>(<span class="sc">-</span>X, <span class="sc">-</span>Y, <span class="sc">-</span>plot) <span class="sc">%&gt;%</span></span>
 <span id="cb2-3"><a href="#cb2-3" aria-hidden="true" tabindex="-1"></a>  <span class="fu">group_by</span>(site, depth) <span class="sc">%&gt;%</span></span>
 <span id="cb2-4"><a href="#cb2-4" aria-hidden="true" tabindex="-1"></a>  <span class="fu">summarise_all</span>(mean, <span class="at">na.omit =</span> <span class="cn">TRUE</span>) <span class="sc">%&gt;%</span></span>
 <span id="cb2-5"><a href="#cb2-5" aria-hidden="true" tabindex="-1"></a>  <span class="fu">gather</span>(variable, value, <span class="sc">-</span>site, <span class="sc">-</span>depth) <span class="sc">%&gt;%</span></span>
@@ -324,7 +321,7 @@ div.csl-indent {
 <details>
 <summary>Code</summary>
 <div class="sourceCode cell-code" id="cb3"><pre class="sourceCode r code-with-copy"><code class="sourceCode r"><span id="cb3-1"><a href="#cb3-1" aria-hidden="true" tabindex="-1"></a><span class="fu">read_tsv</span>(<span class="st">"outputs/soil.tsv"</span>) <span class="sc">%&gt;%</span></span>
-<span id="cb3-2"><a href="#cb3-2" aria-hidden="true" tabindex="-1"></a>  <span class="fu">select</span>(<span class="sc">-</span>lon, <span class="sc">-</span>lat, <span class="sc">-</span>plot) <span class="sc">%&gt;%</span></span>
+<span id="cb3-2"><a href="#cb3-2" aria-hidden="true" tabindex="-1"></a>  <span class="fu">select</span>(<span class="sc">-</span>X, <span class="sc">-</span>Y, <span class="sc">-</span>plot) <span class="sc">%&gt;%</span></span>
 <span id="cb3-3"><a href="#cb3-3" aria-hidden="true" tabindex="-1"></a>  <span class="fu">group_by</span>(site, depth) <span class="sc">%&gt;%</span></span>
 <span id="cb3-4"><a href="#cb3-4" aria-hidden="true" tabindex="-1"></a>  <span class="fu">summarise_all</span>(mean, <span class="at">na.omit =</span> <span class="cn">TRUE</span>) <span class="sc">%&gt;%</span></span>
 <span id="cb3-5"><a href="#cb3-5" aria-hidden="true" tabindex="-1"></a>  <span class="fu">filter</span>(depth <span class="sc">==</span> <span class="dv">5</span>) <span class="sc">%&gt;%</span></span>
@@ -402,7 +399,7 @@ div.csl-indent {
 <span id="cb5-3"><a href="#cb5-3" aria-hidden="true" tabindex="-1"></a>  <span class="fu">filter</span>(depth <span class="sc">==</span> <span class="dv">5</span>) <span class="sc">%&gt;%</span></span>
 <span id="cb5-4"><a href="#cb5-4" aria-hidden="true" tabindex="-1"></a>  <span class="fu">select</span>(<span class="sc">-</span>ocs) <span class="sc">%&gt;%</span></span>
 <span id="cb5-5"><a href="#cb5-5" aria-hidden="true" tabindex="-1"></a>  <span class="fu">na.omit</span>()</span>
-<span id="cb5-6"><a href="#cb5-6" aria-hidden="true" tabindex="-1"></a>pca <span class="ot">&lt;-</span> <span class="fu">prcomp</span>(data <span class="sc">%&gt;%</span> <span class="fu">select</span>(<span class="sc">-</span>site, <span class="sc">-</span>plot, <span class="sc">-</span>lat, <span class="sc">-</span>lon, <span class="sc">-</span>depth), <span class="at">scale. =</span> <span class="cn">TRUE</span>)</span>
+<span id="cb5-6"><a href="#cb5-6" aria-hidden="true" tabindex="-1"></a>pca <span class="ot">&lt;-</span> <span class="fu">prcomp</span>(data <span class="sc">%&gt;%</span> <span class="fu">select</span>(<span class="sc">-</span>site, <span class="sc">-</span>plot, <span class="sc">-</span>X, <span class="sc">-</span>Y, <span class="sc">-</span>depth), <span class="at">scale. =</span> <span class="cn">TRUE</span>)</span>
 <span id="cb5-7"><a href="#cb5-7" aria-hidden="true" tabindex="-1"></a><span class="fu">autoplot</span>(pca,</span>
 <span id="cb5-8"><a href="#cb5-8" aria-hidden="true" tabindex="-1"></a>  <span class="at">loadings =</span> <span class="cn">TRUE</span>, <span class="at">loadings.label =</span> <span class="cn">TRUE</span>,</span>
 <span id="cb5-9"><a href="#cb5-9" aria-hidden="true" tabindex="-1"></a>  <span class="at">loadings.label.repel =</span> <span class="cn">TRUE</span>,</span>

diff --git a/docs/15_landscape.html b/docs/15_landscape.html
@@ -247,7 +247,7 @@ div.csl-indent {
 <span id="cb1-8"><a href="#cb1-8" aria-hidden="true" tabindex="-1"></a>  <span class="fu">select</span>(<span class="sc">-</span><span class="st">`</span><span class="at">0</span><span class="st">`</span>) <span class="sc">%&gt;%</span></span>
 <span id="cb1-9"><a href="#cb1-9" aria-hidden="true" tabindex="-1"></a>  <span class="fu">mutate</span>(<span class="st">`</span><span class="at">1</span><span class="st">`</span> <span class="ot">=</span> <span class="fu">ifelse</span>(<span class="fu">is.na</span>(<span class="st">`</span><span class="at">1</span><span class="st">`</span>), <span class="dv">0</span>, <span class="st">`</span><span class="at">1</span><span class="st">`</span>)) <span class="sc">%&gt;%</span></span>
 <span id="cb1-10"><a href="#cb1-10" aria-hidden="true" tabindex="-1"></a>  <span class="fu">summarise</span>(<span class="at">intact =</span> <span class="st">`</span><span class="at">1</span><span class="st">`</span> <span class="sc">/</span> n_tot <span class="sc">*</span> <span class="dv">100</span>) <span class="sc">%&gt;%</span></span>
-<span id="cb1-11"><a href="#cb1-11" aria-hidden="true" tabindex="-1"></a>  <span class="fu">mutate</span>(<span class="at">intact =</span> <span class="fu">ifelse</span>(site <span class="sc">==</span> <span class="st">"Misiones"</span>, <span class="cn">NA</span>, intact)) <span class="sc">%&gt;%</span> </span>
+<span id="cb1-11"><a href="#cb1-11" aria-hidden="true" tabindex="-1"></a>  <span class="fu">mutate</span>(<span class="at">intact =</span> <span class="fu">ifelse</span>(site <span class="sc">==</span> <span class="st">"Misiones"</span>, <span class="cn">NA</span>, intact)) <span class="sc">%&gt;%</span></span>
 <span id="cb1-12"><a href="#cb1-12" aria-hidden="true" tabindex="-1"></a>  <span class="fu">write_tsv</span>(<span class="st">"outputs/landscape.tsv"</span>)</span></code><button title="Copy to Clipboard" class="code-copy-button"><i class="bi"></i></button></pre></div>
 </details>
 </div>

diff --git a/scripts/get_soil.py b/scripts/get_soil.py
@@ -9,8 +9,7 @@ out_file = snakemake.output[0]
 
 # test
 # sites_tab = "config/sites.tsv"
-# site = "Uppangala_LP2"
-# out_file = "data/soil/Uppangala_LP2_soil.tsv"
+# site = "Paracou_1"
 
 # libs
 import pandas as pd
@@ -21,12 +20,14 @@ sites = pd.read_table(sites_tab)
 sites['site_plot'] = sites['site'] + "_" + sites['plot']
 sites = sites[sites["site_plot"]==site]
 ee.Initialize(opt_url='https://earthengine-highvolume.googleapis.com')
-leg = ee.Geometry.Rectangle(sites["longitude"].values[0], sites["latitude"].values[0], sites["longitude"].values[0], sites["latitude"].values[0])
+radius = 0.001
+leg = ee.Geometry.Rectangle(sites["longitude"].values[0]-radius, sites["latitude"].values[0]-radius, 
+                            sites["longitude"].values[0]+radius, sites["latitude"].values[0]+radius)
 
 def get_var(var):
     im = ee.Image("projects/soilgrids-isric/" + var)
     ic = ee.ImageCollection.fromImages([im])                       
-    ds = xr.open_mfdataset([ic], engine='ee', geometry=leg)
+    ds = xr.open_mfdataset([ic], engine='ee',  projection=ic.first().select(0).projection(), geometry=leg)
     return ds.to_dataframe()
 
 all_tabs = [get_var("bdod_mean"),

diff --git a/NEWS.md b/NEWS.md
@@ -1,3 +1,4 @@
+-   environment 0.1.0.9013: paracou and bafog soil fixed using bb, #1
 -   environment 0.1.0.9012: tmf misiones understood, #1
 -   environment 0.1.0.9011: tmf extraction fixed for all except missiones, #1
 -   environment 0.1.0.9010: esri wolrd imagery in site map for manual inspection of landscape, #1
